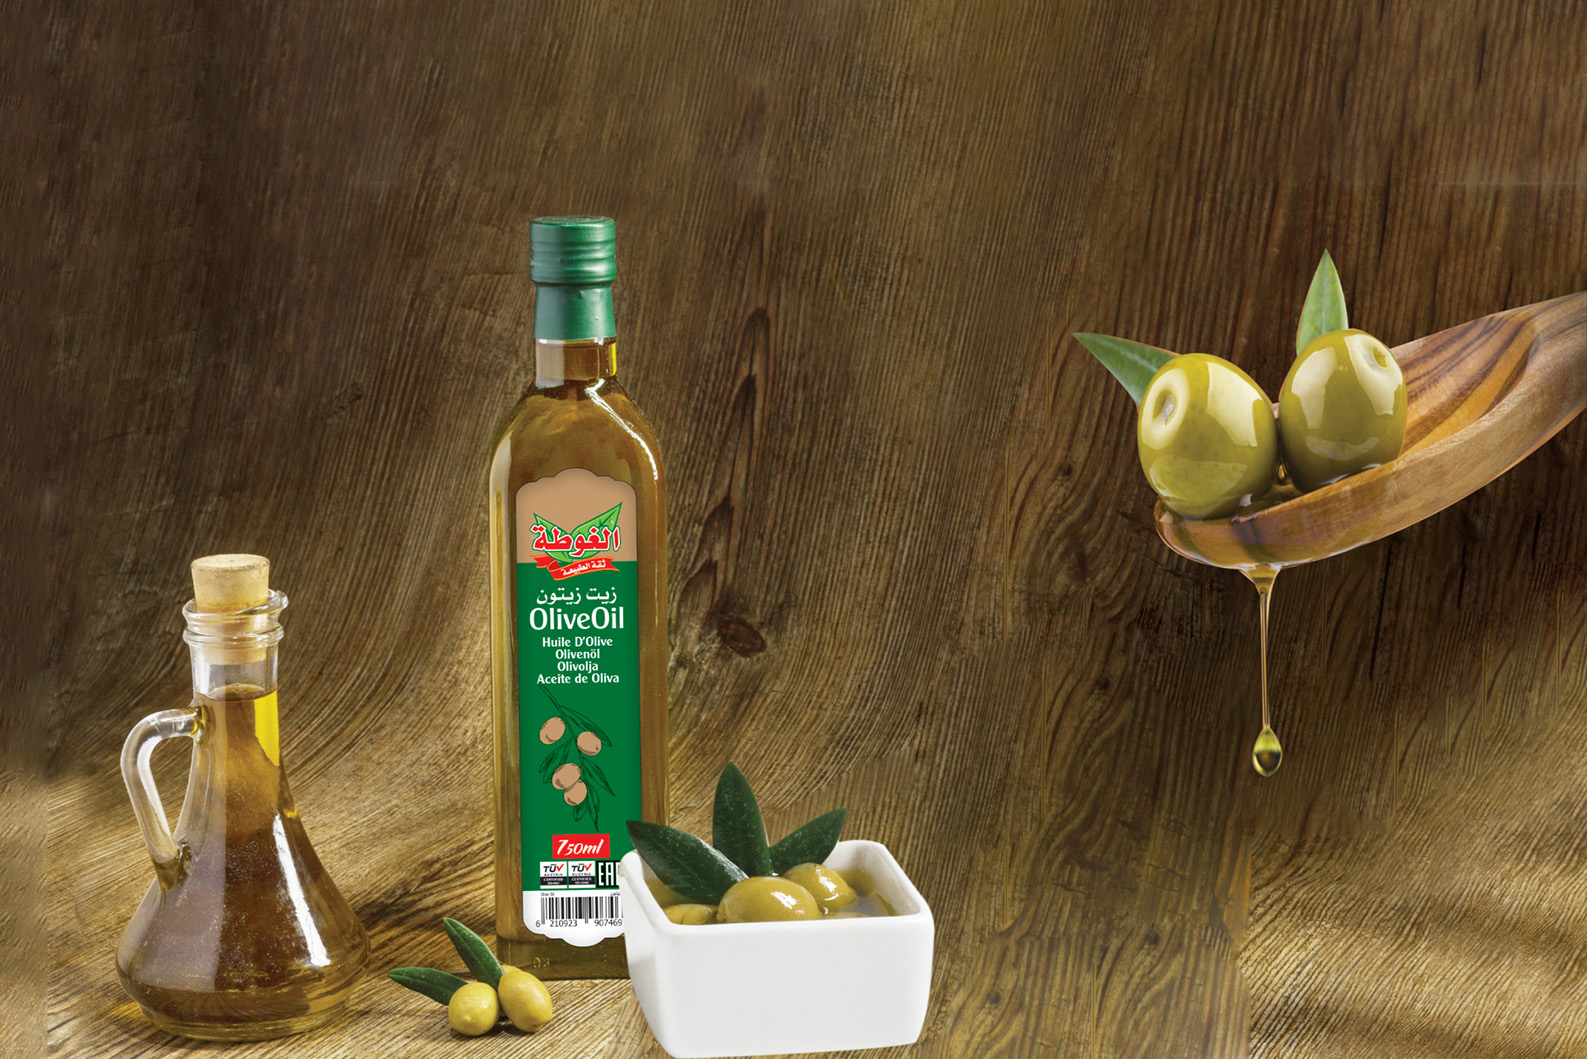
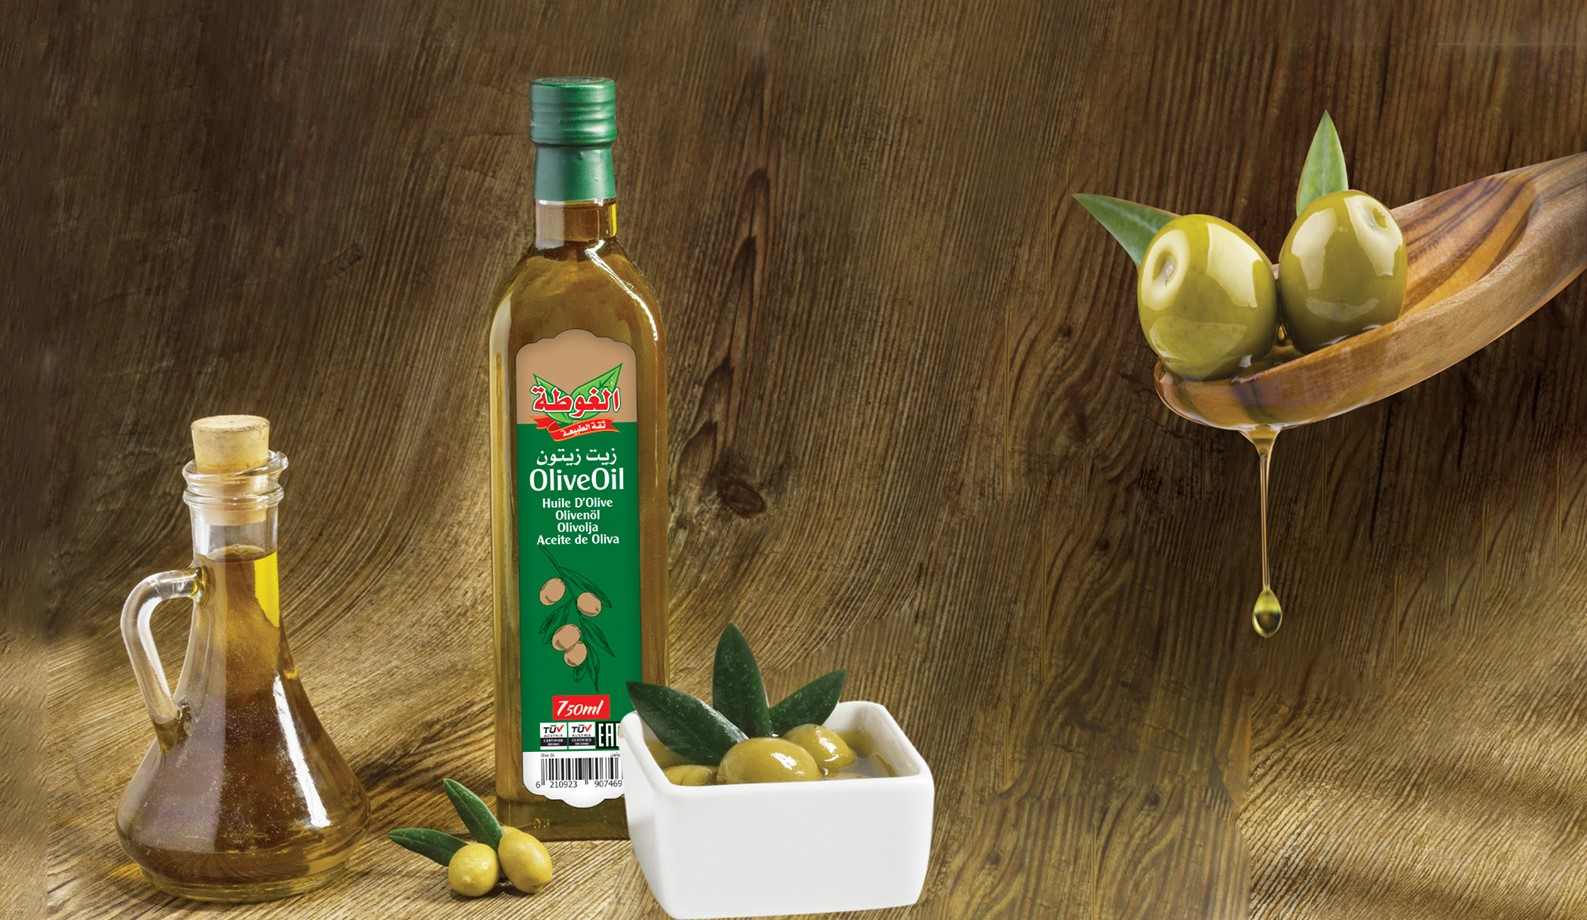
adding landing image

diff --git a/src/pages/Home/Landing/landing.css b/src/pages/Home/Landing/landing.css
@@ -3,31 +3,31 @@
 /* -------------------------------------------------------------------------- */
 .landing img {
   width: 100%;
-  height: 100vh;
+  /* height: 100vh; */
 }
 @media (max-width: 1024px) and (min-height: 1366px) {
   .landing img {
-    height: 50vh;
+    /* height: 50vh; */
   }
 }
 @media (max-width: 820px) {
   .landing img {
-    height: 50vh;
+    /* height: 50vh; */
   }
 }
 @media (min-width: 400px) and (max-height: 600px) {
   .landing img {
-    height: 100vh;
+    /* height: 100vh; */
   }
 }
 @media (max-width: 500px) {
   .landing img {
-    height: 40vh;
+    /* height: 40vh; */
   }
 }
 @media (min-width: 1400px) {
   .landing img {
-    height: 100vh;
+    /* height: 100vh; */
   }
 }
 .swiper-button-prev:after,

diff --git a/src/data/landingPage.js b/src/data/landingPage.js
@@ -8,6 +8,7 @@ import img7 from "../assest/image/img-landing/7.jpg";
 import img8 from "../assest/image/img-landing/8.png";
 import img9 from "../assest/image/img-landing/9.jpg";
 import img10 from "../assest/image/img-landing/10.jpg";
+import img11 from "../assest/image/img-landing/11.jpg";
 const LandingPage = [
   {
     image: img1,
@@ -38,6 +39,9 @@ const LandingPage = [
   },
   {
     image: img10,
+  },
+  {
+    image: img11,
   },
 ];
 export default LandingPage;

diff --git a/src/pages/Home/Landing/landing.jsx b/src/pages/Home/Landing/landing.jsx
@@ -17,7 +17,7 @@ const Landing = ({ slides }) => {
             disableOnInteraction: false,
           }}
           navigation={true}
-          modules={[Navigation, Autoplay]}
+          modules={[Navigation]}
           className="mySwiper"
         >
           {slides.map((slide) => (
